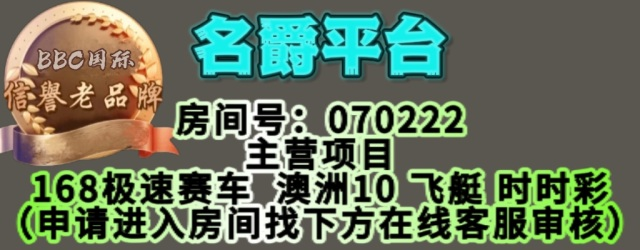
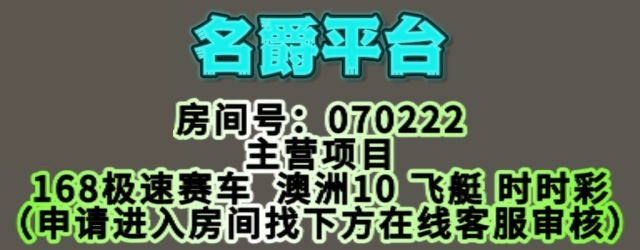
Add files via upload

Changed region(s): [[0.0, 0.0, 0.2812, 0.672]]

diff --git a/files/global.css b/files/global.css
@@ -8,7 +8,7 @@ body{
 }
 .head{
 	height:120px;
-	background:#ffffff;
+	background:#534e4e;
 	padding-left:20px;
 	display: -webkit-box;
 	display: -webkit-flex;
@@ -51,7 +51,7 @@ body{
 	white-space:nowrap;
 	line-height:50px;
 	font-size:20px;
-	color:#686868;
+	color:#000000;
 }
 .kf{
 	text-align:center;
@@ -64,7 +64,7 @@ body{
 	padding-left:25px;
 	color:#ff5d90;
 } .hui em{color:#545454;;}
-.hui a{color:#ff5d90;}
+.hui a{color:#ff9d9d;}
 .cesu{
 	width:590px;
 	margin:0  auto;
@@ -87,11 +87,11 @@ body{
 	align-items: center;
 }
 .miaoinpt{
-	color:#686868;
+	color:#000000;
 	font-size:26px;
 	height:53px;
-	border:2px solid #cfcfcf;
-	background:#f0efef;
+	border:2px solid #9cee65;
+	background:#9cf599;
 	text-align:center;
 	border-radius: 5px;
 	line-height:52px;
@@ -100,7 +100,7 @@ body{
 .miaoinpt2{width:300px;}
 .dw{
 	display:block;
-	color:#fff;
+	color:#5bff63;
 	height:57px;
 	border-radius: 5px;
 	text-align:center;
